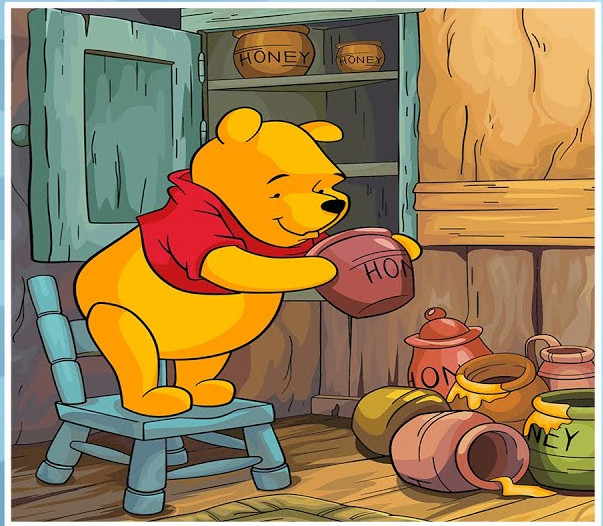
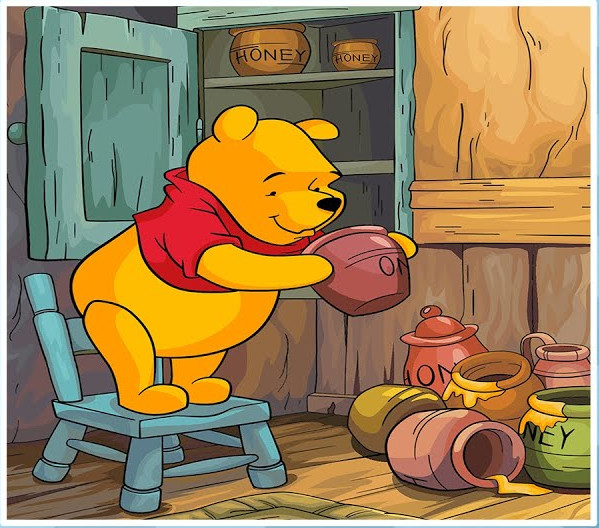
fix: image

diff --git a/index.html b/index.html
@@ -14,9 +14,9 @@
 		}
 		.column {
 			float: left;
-  			width: 50%;
+  			width: 45%;
   			padding: 10px; 
-			height:300px;
+			//height:300px;
 		}
 	
 		.row:after {
@@ -34,7 +34,7 @@
 	<h2>Spot the difference!</h2>
 	<div class="row">
   		<div class="column">
-    			<h2>Iamge 1</h2>
+    			<h2>Image 1</h2>
 			<img src="static/winnie_difference_1.jpg" alt="image1" width="200">
   		</div>
   		<div class="column">
